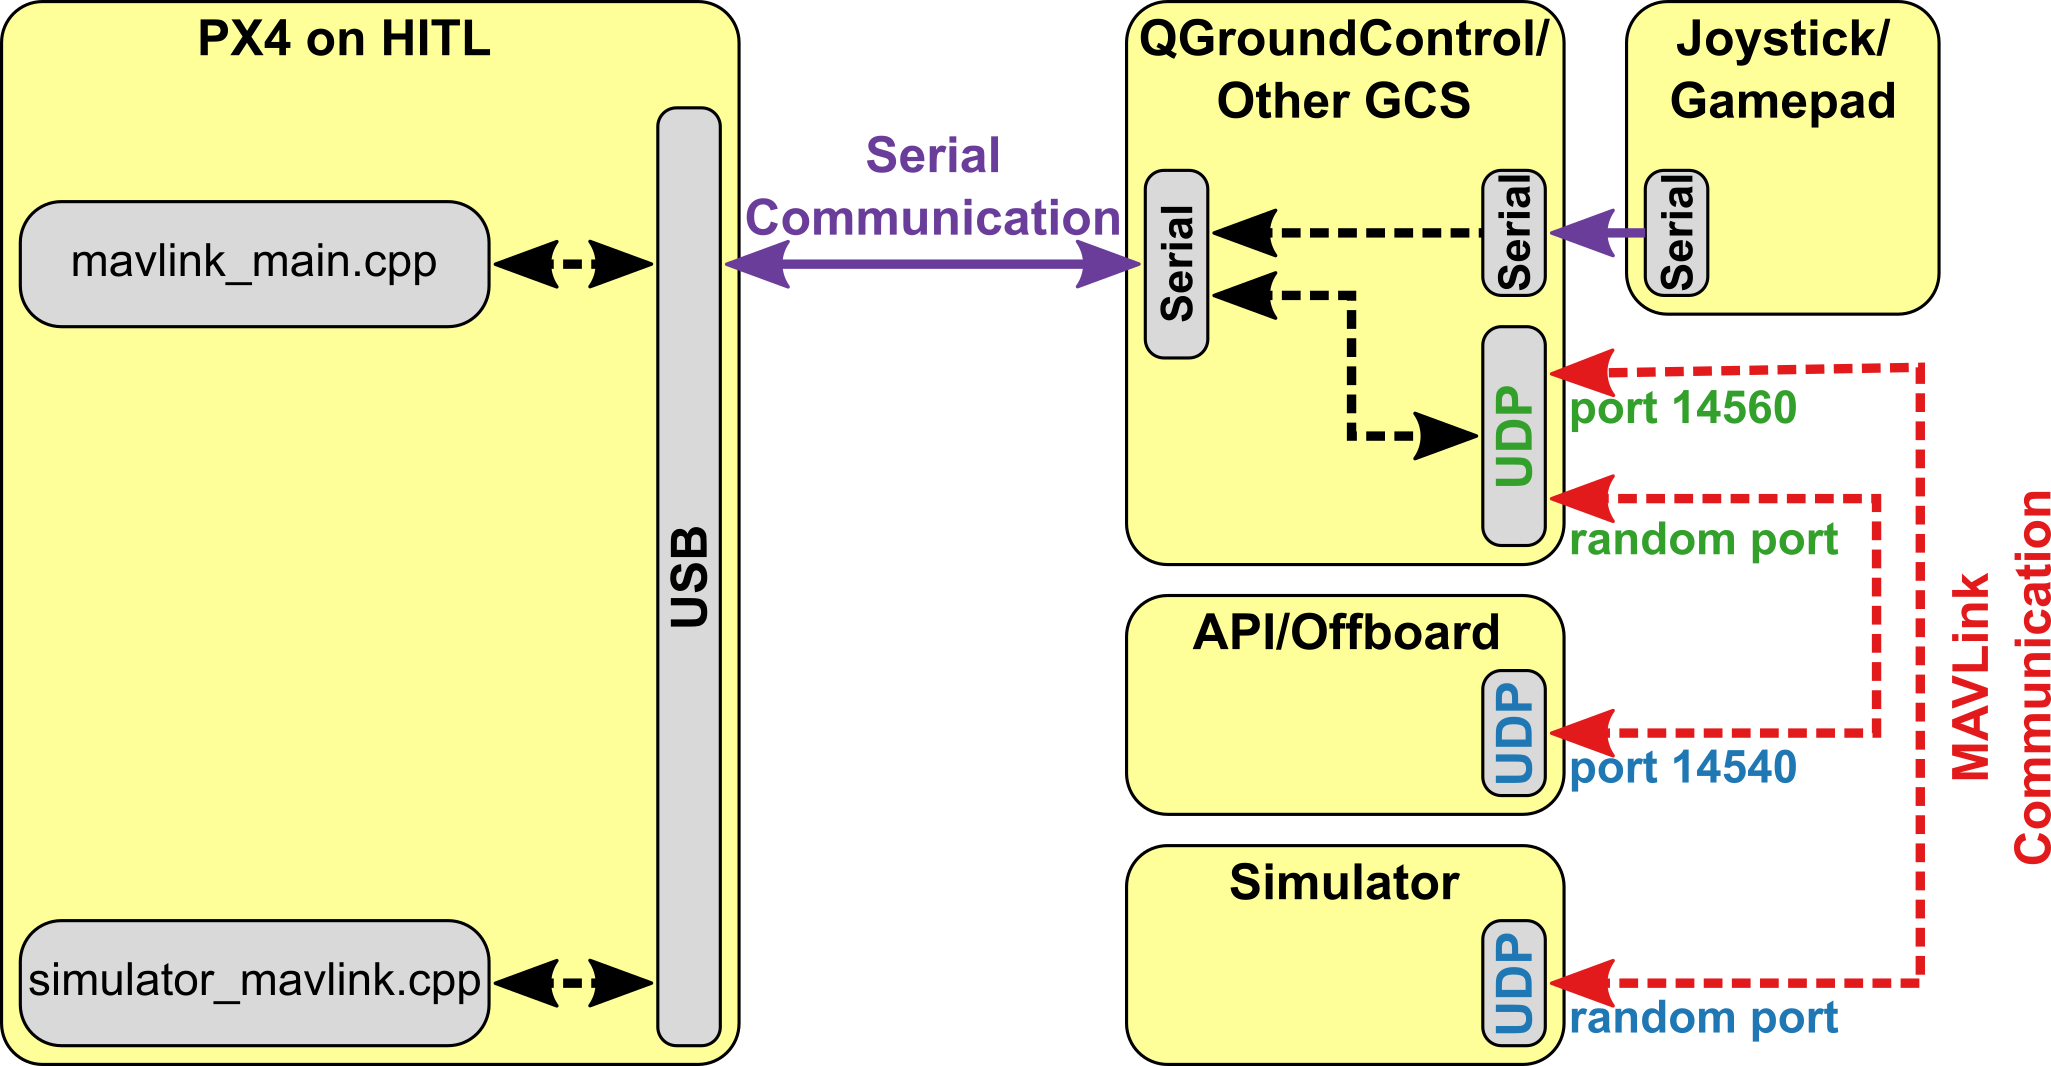
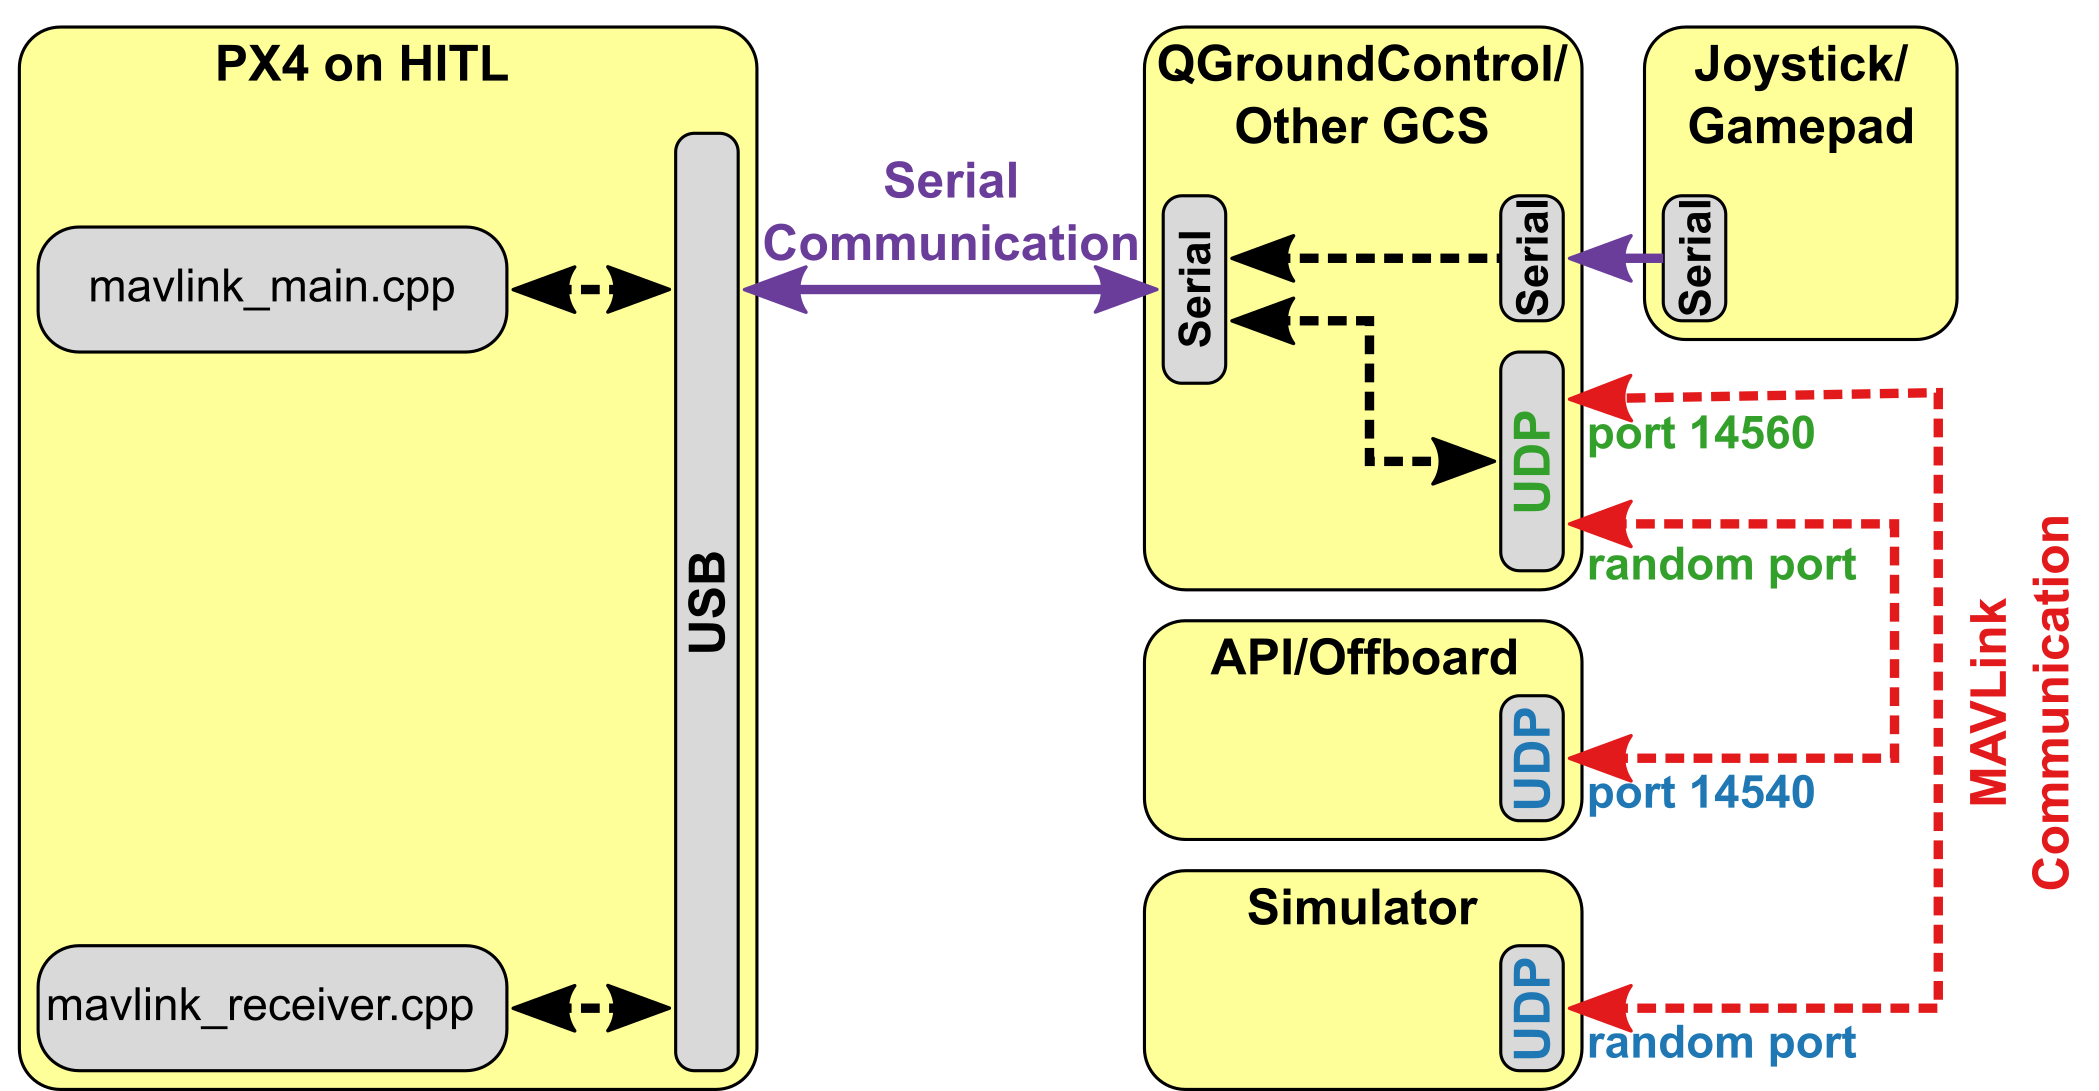
Update HIL docs to show mavlink_receiver.cpp handling simulation api messages

Changed region(s): [[0.0, 0.0, 1.0, 1.0], [0.5305, 0.8049, 0.5617, 1.0]]

diff --git a/en/simulation/README.md b/en/simulation/README.md
@@ -33,7 +33,7 @@ All simulators communicate with PX4 using the Simulator MAVLink API. This API de
 
 ![Simulator MAVLink API](../../assets/simulation/px4_simulator_messages.png)
 
-> **Note** A simulator build of PX4 (both SITL and HITL) uses [simulator_mavlink.cpp](https://github.com/PX4/Firmware/blob/master/src/modules/simulator/simulator_mavlink.cpp) to handle these messages. Sensor data from the simulator is written to a dummy driver and appears "real" to PX4. All motors / actuators are blocked, but internal software is fully operational.
+> **Note** A SITL build of PX4 uses [simulator_mavlink.cpp](https://github.com/PX4/Firmware/blob/master/src/modules/simulator/simulator_mavlink.cpp) to handle these messages while a hardware build in HIL mode uses [mavlink_receiver.cpp](https://github.com/PX4/Firmware/blob/master/src/modules/mavlink/mavlink_receiver.cpp). Sensor data from the simulator is written to PX4 uORB topics. All motors / actuators are blocked, but internal software is fully operational.
 
 The messages are described below (see links for specific detail).
 
